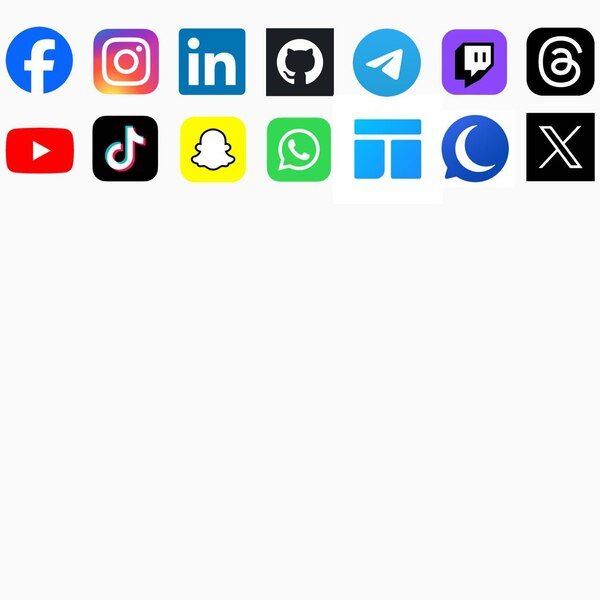
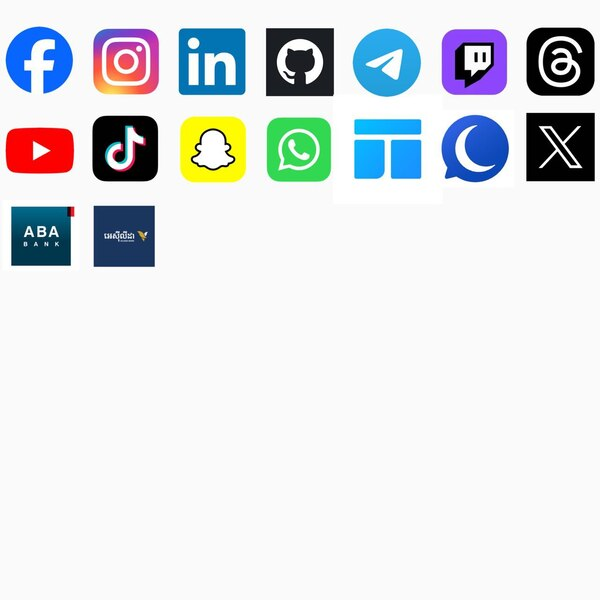
Add files via upload

Changed region(s): [[0.15, 0.33, 0.27, 0.45], [0.0, 0.33, 0.12, 0.45]]

diff --git a/index.html b/index.html
@@ -14,7 +14,13 @@
         float: left;
       }
       .title {
+        margin-top: 2rem;
         color: black;
+        font-size: 18px;
+      }
+      .last {
+        margin-left: 12rem;
+        color: skyblue;
         font-size: 18px;
       }
       .fb {
@@ -59,8 +65,11 @@
       .coolapp {
         background: url("./social.jpg") -430px -105px;
       }
+      .aba {
+        background: url("./social.jpg") 5px -190px;
+      }
     </style>
-    <h1 class="title"><li>My Name's NY VICHEKA - Contact Me By below</li></h1>
+    <h1 class="title"><li>NY VICHEKA - Contact Us</li></h1>
     <a
       href="https://www.facebook.com/ny.vichekaa"
       class="social fb"
@@ -119,5 +128,12 @@
       class="social coolapp"
       target="_blank"
     ></a>
+    <a
+      href="https://pay.ababank.com/yW6sMAuazYxAvjiY8"
+      class="social aba"
+      target="_blank"
+    ></a>
+    <br />
+    <p class="last">Thank You!</p>
   </body>
 </html>
